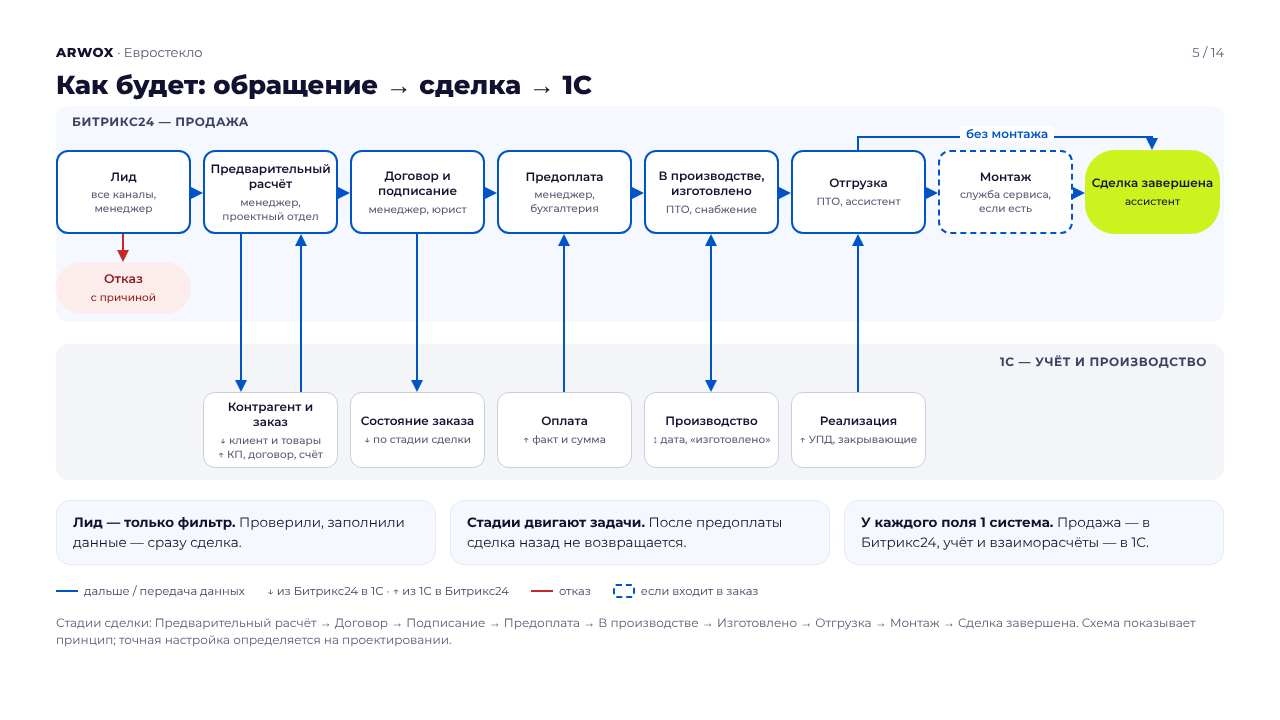
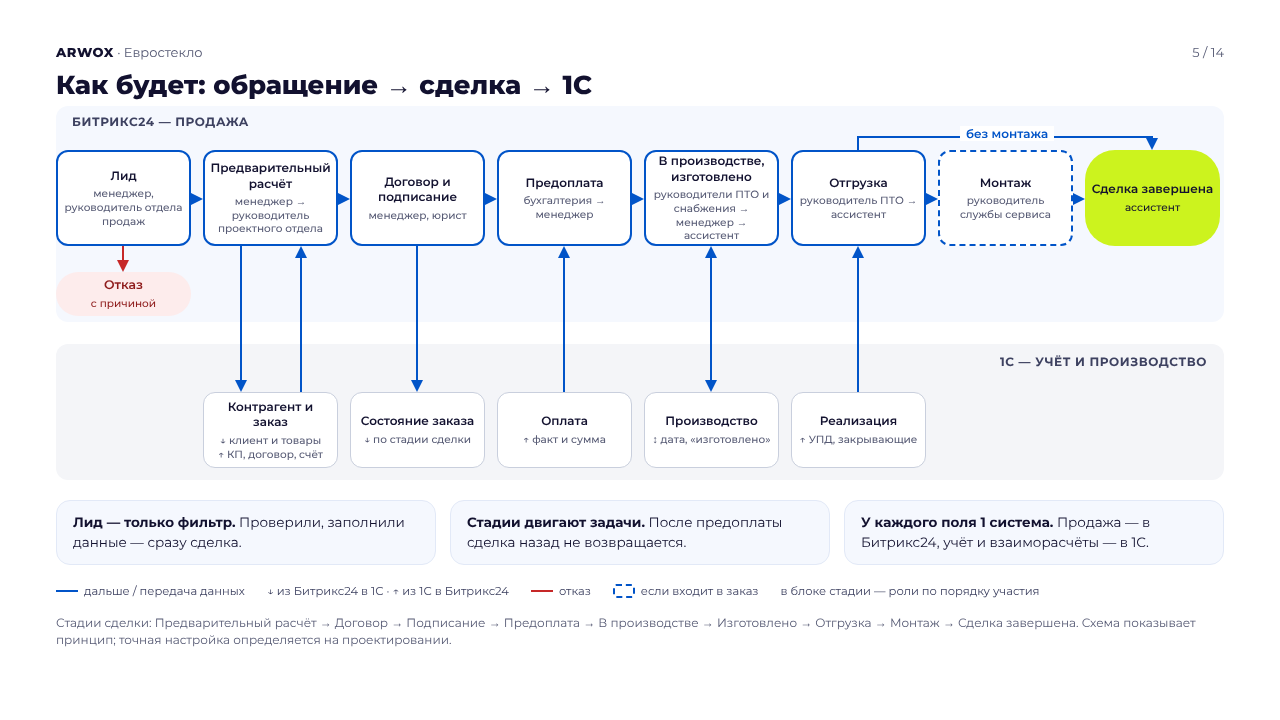
claude-web: ППО — роли по порядку в блоках схемы, автозадача звонков 14/90/270
Claude-Session: https://claude.ai/code/session_01GkndF4A6X3vok37QfmD711

diff --git a/docs/ppo-design/2026-10-28-final/project/S2-shema.dc.html b/docs/ppo-design/2026-10-28-final/project/S2-shema.dc.html
@@ -30,30 +30,30 @@ a{color:#0154C8}a:hover{color:#006DFF}
   <div class="lane" style="top: 344px; height: 136px; background: #f4f5f8"></div>
   <span class="lt" style="left: 1000px; top: 354px">1С — учёт и производство</span>
 
-  <div class="box st" style="left: 56px; top: 150px; width: 135px; height: 84px; border: 2px solid #0154C8; background: #fff; align-items: center; text-align: center">Лид<small>все каналы, менеджер</small></div>
-  <div class="box st" style="left: 203px; top: 150px; width: 135px; height: 84px; border: 2px solid #0154C8; background: #fff; align-items: center; text-align: center">Предварительный расчёт<small>менеджер, проектный отдел</small></div>
-  <div class="box st" style="left: 350px; top: 150px; width: 135px; height: 84px; border: 2px solid #0154C8; background: #fff; align-items: center; text-align: center">Договор и подписание<small>менеджер, юрист</small></div>
-  <div class="box st" style="left: 497px; top: 150px; width: 135px; height: 84px; border: 2px solid #0154C8; background: #fff; align-items: center; text-align: center">Предоплата<small>менеджер, бухгалтерия</small></div>
-  <div class="box st" style="left: 644px; top: 150px; width: 135px; height: 84px; border: 2px solid #0154C8; background: #fff; align-items: center; text-align: center">В производстве, изготовлено<small>ПТО, снабжение</small></div>
-  <div class="box st" style="left: 791px; top: 150px; width: 135px; height: 84px; border: 2px solid #0154C8; background: #fff; align-items: center; text-align: center">Отгрузка<small>ПТО, ассистент</small></div>
-  <div class="box st" style="left: 938px; top: 150px; width: 135px; height: 84px; border: 2px dashed #0154C8; background: #fff; align-items: center; text-align: center">Монтаж<small>служба сервиса, если есть</small></div>
-  <div class="box st" style="left: 1085px; top: 150px; width: 135px; height: 84px; background: #CCF31E; border-radius: 30px; align-items: center; text-align: center">Сделка завершена<small style="color: #12112F">ассистент</small></div>
+  <div class="box st" style="left: 56px; top: 150px; width: 135px; height: 96px; border: 2px solid #0154C8; background: #fff; align-items: center; text-align: center">Лид<small>менеджер, руководитель отдела продаж</small></div>
+  <div class="box st" style="left: 203px; top: 150px; width: 135px; height: 96px; border: 2px solid #0154C8; background: #fff; align-items: center; text-align: center">Предварительный расчёт<small>менеджер → руководитель проектного отдела</small></div>
+  <div class="box st" style="left: 350px; top: 150px; width: 135px; height: 96px; border: 2px solid #0154C8; background: #fff; align-items: center; text-align: center">Договор и подписание<small>менеджер, юрист</small></div>
+  <div class="box st" style="left: 497px; top: 150px; width: 135px; height: 96px; border: 2px solid #0154C8; background: #fff; align-items: center; text-align: center">Предоплата<small>бухгалтерия → менеджер</small></div>
+  <div class="box st" style="left: 644px; top: 150px; width: 135px; height: 96px; border: 2px solid #0154C8; background: #fff; align-items: center; text-align: center">В производстве, изготовлено<small>руководители ПТО и снабжения → менеджер → ассистент</small></div>
+  <div class="box st" style="left: 791px; top: 150px; width: 135px; height: 96px; border: 2px solid #0154C8; background: #fff; align-items: center; text-align: center">Отгрузка<small>руководитель ПТО → ассистент</small></div>
+  <div class="box st" style="left: 938px; top: 150px; width: 135px; height: 96px; border: 2px dashed #0154C8; background: #fff; align-items: center; text-align: center">Монтаж<small>руководитель службы сервиса</small></div>
+  <div class="box st" style="left: 1085px; top: 150px; width: 135px; height: 96px; background: #CCF31E; border-radius: 30px; align-items: center; text-align: center">Сделка завершена<small style="color: #12112F">ассистент</small></div>
 
-  <div class="hd r" style="left: 191px; top: 187px"></div>
-  <div class="hd r" style="left: 338px; top: 187px"></div>
-  <div class="hd r" style="left: 485px; top: 187px"></div>
-  <div class="hd r" style="left: 632px; top: 187px"></div>
-  <div class="hd r" style="left: 779px; top: 187px"></div>
-  <div class="hd r" style="left: 926px; top: 187px"></div>
-  <div class="hd r" style="left: 1073px; top: 187px"></div>
+  <div class="hd r" style="left: 191px; top: 193px"></div>
+  <div class="hd r" style="left: 338px; top: 193px"></div>
+  <div class="hd r" style="left: 485px; top: 193px"></div>
+  <div class="hd r" style="left: 632px; top: 193px"></div>
+  <div class="hd r" style="left: 779px; top: 193px"></div>
+  <div class="hd r" style="left: 926px; top: 193px"></div>
+  <div class="hd r" style="left: 1073px; top: 193px"></div>
 
   <div class="ln" style="left: 857px; top: 138px; width: 2px; height: 12px"></div>
   <div class="ln" style="left: 857px; top: 136px; width: 296px; height: 2px"></div>
   <div class="hd d" style="left: 1146px; top: 138px"></div>
   <span class="lbl" style="left: 960px; top: 126px">без монтажа</span>
 
-  <div class="ln red" style="left: 122px; top: 234px; width: 2px; height: 16px"></div><div class="hd d red" style="left: 117px; top: 250px"></div>
-  <div class="box" style="left: 56px; top: 262px; width: 135px; height: 52px; background: #fdecec; color: #8e1b1b; border-radius: 26px; align-items: center; text-align: center; font-size: 12.5px; padding: 6px">Отказ<small style="color: #8e1b1b; font-size: 10.5px">с причиной</small></div>
+  <div class="ln red" style="left: 122px; top: 246px; width: 2px; height: 14px"></div><div class="hd d red" style="left: 117px; top: 260px"></div>
+  <div class="box" style="left: 56px; top: 272px; width: 135px; height: 44px; background: #fdecec; color: #8e1b1b; border-radius: 26px; align-items: center; text-align: center; font-size: 12.5px; padding: 6px">Отказ<small style="color: #8e1b1b; font-size: 10.5px">с причиной</small></div>
 
   <div class="box st" style="left: 203px; top: 392px; width: 135px; height: 76px; background: #fff; border: 1px solid #c9cfdd; align-items: center; text-align: center">Контрагент и заказ<small>↓ клиент и товары<br>↑ КП, договор, счёт</small></div>
   <div class="box st" style="left: 350px; top: 392px; width: 135px; height: 76px; background: #fff; border: 1px solid #c9cfdd; align-items: center; text-align: center">Состояние заказа<small>↓ по стадии сделки</small></div>
@@ -61,12 +61,12 @@ a{color:#0154C8}a:hover{color:#006DFF}
   <div class="box st" style="left: 644px; top: 392px; width: 135px; height: 76px; background: #fff; border: 1px solid #c9cfdd; align-items: center; text-align: center">Производство<small>↕ дата, «изготовлено»</small></div>
   <div class="box st" style="left: 791px; top: 392px; width: 135px; height: 76px; background: #fff; border: 1px solid #c9cfdd; align-items: center; text-align: center">Реализация<small>↑ УПД, закрывающие</small></div>
 
-  <div class="ln" style="left: 240px; top: 234px; width: 2px; height: 146px"></div><div class="hd d" style="left: 235px; top: 380px"></div>
-  <div class="ln" style="left: 300px; top: 246px; width: 2px; height: 146px"></div><div class="hd u" style="left: 295px; top: 234px"></div>
-  <div class="ln" style="left: 416px; top: 234px; width: 2px; height: 146px"></div><div class="hd d" style="left: 411px; top: 380px"></div>
-  <div class="ln" style="left: 563px; top: 246px; width: 2px; height: 146px"></div><div class="hd u" style="left: 558px; top: 234px"></div>
-  <div class="ln" style="left: 710px; top: 246px; width: 2px; height: 134px"></div><div class="hd u" style="left: 705px; top: 234px"></div><div class="hd d" style="left: 705px; top: 380px"></div>
-  <div class="ln" style="left: 857px; top: 246px; width: 2px; height: 146px"></div><div class="hd u" style="left: 852px; top: 234px"></div>
+  <div class="ln" style="left: 240px; top: 246px; width: 2px; height: 134px"></div><div class="hd d" style="left: 235px; top: 380px"></div>
+  <div class="ln" style="left: 300px; top: 258px; width: 2px; height: 134px"></div><div class="hd u" style="left: 295px; top: 246px"></div>
+  <div class="ln" style="left: 416px; top: 246px; width: 2px; height: 134px"></div><div class="hd d" style="left: 411px; top: 380px"></div>
+  <div class="ln" style="left: 563px; top: 258px; width: 2px; height: 134px"></div><div class="hd u" style="left: 558px; top: 246px"></div>
+  <div class="ln" style="left: 710px; top: 258px; width: 2px; height: 122px"></div><div class="hd u" style="left: 705px; top: 246px"></div><div class="hd d" style="left: 705px; top: 380px"></div>
+  <div class="ln" style="left: 857px; top: 258px; width: 2px; height: 134px"></div><div class="hd u" style="left: 852px; top: 246px"></div>
 
   <div style="position: absolute; left: 56px; top: 500px; width: 1168px; display: grid; grid-template-columns: repeat(3, minmax(0, 1fr)); gap: 14px">
     <div class="card w" style="padding: 12px 16px"><p style="margin: 0; font-size: 13.5px"><b>Лид — только фильтр.</b> Проверили, заполнили данные — сразу сделка.</p></div>
@@ -79,6 +79,7 @@ a{color:#0154C8}a:hover{color:#006DFF}
     <span class="lg">↓ из Битрикс24 в 1С · ↑ из 1С в Битрикс24</span>
     <span class="lg"><span class="sw" style="height: 2px; background: #c62828"></span>отказ</span>
     <span class="lg"><span class="sw" style="border: 2px dashed #0154C8; border-radius: 3px"></span>если входит в заказ</span>
+    <span class="lg">в блоке стадии — роли по порядку участия</span>
   </div>
   <p class="note" style="position: absolute; left: 56px; top: 614px; margin: 0; width: 1168px">Стадии сделки: Предварительный расчёт → Договор → Подписание → Предоплата → В&nbsp;производстве → Изготовлено → Отгрузка → Монтаж → Сделка завершена. Схема показывает принцип; точная настройка определяется на&nbsp;проектировании.</p>
 </div>

diff --git a/docs/ppo-design/2026-10-28-final/project/S08-sdelka-2.dc.html b/docs/ppo-design/2026-10-28-final/project/S08-sdelka-2.dc.html
@@ -36,7 +36,7 @@ a{color:#0154C8}a:hover{color:#006DFF}
         <td>Менеджер сообщает клиенту о&nbsp;готовности, выставляет счёт на&nbsp;остаток, согласует дату; доверенность — если нужна. Ассистент готовит закрывающие из&nbsp;1С и&nbsp;прикладывает к&nbsp;сделке</td>
         <td>Руководитель ПТО получает уведомление и планирует доставку; подписанные документы от&nbsp;водителя передаёт ассистенту. При самовывозе клиент подписывает на&nbsp;месте</td>
         <td>Проектный отдел — монтажная схема, менеджер — наряд&#8209;задание. Руководитель службы сервиса: бригада, дата, выезд, фото, акт</td>
-        <td>Ассистент собирает оригиналы или документы по&nbsp;ЭДО. По&nbsp;заказам от&nbsp;100&nbsp;000&nbsp;₽ звонит клиенту через 14, 90 и&nbsp;270&nbsp;дней от&nbsp;сдачи монтажа или завершения; итог — примечание в&nbsp;сделке</td></tr>
+        <td>Ассистент собирает оригиналы или документы по&nbsp;ЭДО. По&nbsp;заказам от&nbsp;100&nbsp;000&nbsp;₽ — автоматическая задача позвонить клиенту через 14, 90 и&nbsp;270&nbsp;дней от&nbsp;сдачи монтажа или завершения; итог — примечание в&nbsp;сделке</td></tr>
       <tr><td>Кто</td><td>Руководитель ПТО, руководитель снабжения</td><td>Менеджер, ассистент отдела продаж</td><td>Руководитель ПТО</td><td>Руководитель службы сервиса</td><td>Ассистент отдела продаж</td></tr>
       <tr class="go"><td>Дальше, когда</td><td>Руководитель ПТО отмечает «изготовлено»</td><td>Остаток оплачен, закрывающие в&nbsp;сделке</td><td>Монтаж нужен — на&nbsp;монтаж; нет — завершение</td><td>Акт подписан, фото и документы в&nbsp;сделке</td><td>Оригиналы получены</td></tr>
       <tr class="ex"><td>Исключения</td><td>Срок сдвинулся — ПТО меняет дату, менеджер видит новую</td><td>Отгрузить без полной оплаты — решает руководитель отдела продаж</td><td></td><td>Объект не&nbsp;готов — сделка остаётся на&nbsp;монтаже; перенос и&nbsp;отказ подписать акт — решает руководитель службы сервиса, причина — в&nbsp;акте о&nbsp;недостатках</td><td>Недозвон — повтор через 3&nbsp;дня, до&nbsp;5&nbsp;попыток</td></tr>

diff --git a/docs/ppo-design/2026-10-28-final/project/S06-lidy.dc.html b/docs/ppo-design/2026-10-28-final/project/S06-lidy.dc.html
@@ -39,7 +39,7 @@ a{color:#0154C8}a:hover{color:#006DFF}
 
   <div class="box b6" style="left: 193px; top: 290px; width: 330px; height: 60px; border: 2px solid #0154C8; background: #fff; align-items: center; text-align: center">Проверка дублей<small>телефон, e-mail, ФИО; новый номер — дополнительный к клиенту</small></div>
   <div class="ln" style="left: 357px; top: 350px; width: 2px; height: 10px"></div><div class="hd d" style="left: 352px; top: 360px"></div>
-  <div class="box b6" style="left: 193px; top: 372px; width: 330px; height: 60px; border: 2px solid #0154C8; background: #fff; align-items: center; text-align: center">Квалификация<small>наш клиент или нет, реквизиты; физлицо — контакт, юрлицо — компания</small></div>
+  <div class="box b6" style="left: 193px; top: 372px; width: 330px; height: 60px; border: 2px solid #0154C8; background: #fff; align-items: center; text-align: center">Квалификация<small>менеджер: наш клиент или нет, реквизиты; физлицо — контакт, юрлицо — компания</small></div>
 
   <div class="ln" style="left: 357px; top: 432px; width: 2px; height: 18px"></div>
   <div class="ln" style="left: 145px; top: 450px; width: 427px; height: 2px"></div>

diff --git a/sessions/2026-10-27-validatsiya-dannyh.md b/sessions/2026-10-27-validatsiya-dannyh.md
@@ -50,3 +50,6 @@
 - 28.10: порядок слайдов — «Отказы и возвраты» 9, «Сроки, решения, отчёты» 10 (по дизайнеру). Ремарка «возможны ошибки и неточности — отметьте при согласовании» — на слайдах 1 и 14 (по просьбе владельца; формула шаблона ARWOX усилена). На слайд 14 добавлено: состав полей карточек компании и сделки (ответ 18 дал только лид и клиента; комментарий Miro 28.09), разбор жалоб после звонков — вне этапа, без автоматизации (Hkb 358).
 - 28.10: сознательно не внесено: дата-заглушка срока ответа на слайде 14 (ставит менеджер при отправке); красная разметка критических точек на слайде 4 (так предписывает шаблон ppo-design); детали для ТЗ — дубли по базе 1С, физлицо → юрлицо, подрядчик-плательщик, шаблоны писем, Челнокова ежедневно.
 - 28.10: validate_canvas TOTAL ISSUES 0, снимки 14/14 просмотрены глазами; исходники и снимки — docs/ppo-design/2026-10-28-final/.
+- 28.10: звонки 14/90/270 сверены: Miro — узел «Ассистент ОП | звонит клиенту через 14/90/270 дней» и комментарий «Автоматическая постановка задачи / Уведомление через 14/90/270 дней»; Hkb 353, 365–368 (от сдачи монтажа, без монтажа — от завершения сделки); ответы 2, 3, 4 (порог 100 000 ₽, 5 попыток, примечание). На слайде 8 было, добавлено «автоматическая задача».
+- 28.10: по просьбе владельца — роли в блоках общей схемы (слайд 5) полными названиями и по порядку участия (например «руководители ПТО и снабжения → менеджер → ассистент»), легенда «в блоке стадии — роли по порядку участия»; на слайде 6 в «Квалификации» указан менеджер. Слайд 9 не трогал: кто решает об отказе, подписано на стрелках.
+- 28.10: вопрос владельца «поднять лиды выше» — оставлено как есть: лиды — первый слайд деталей сразу после общей схемы, где Лид — первый блок; перенос перед схемой ломает порядок «общее → частное», перед «как сейчас» — смешивает текущий и будущий процесс. Дизайнер-критик порядок подтвердил.
